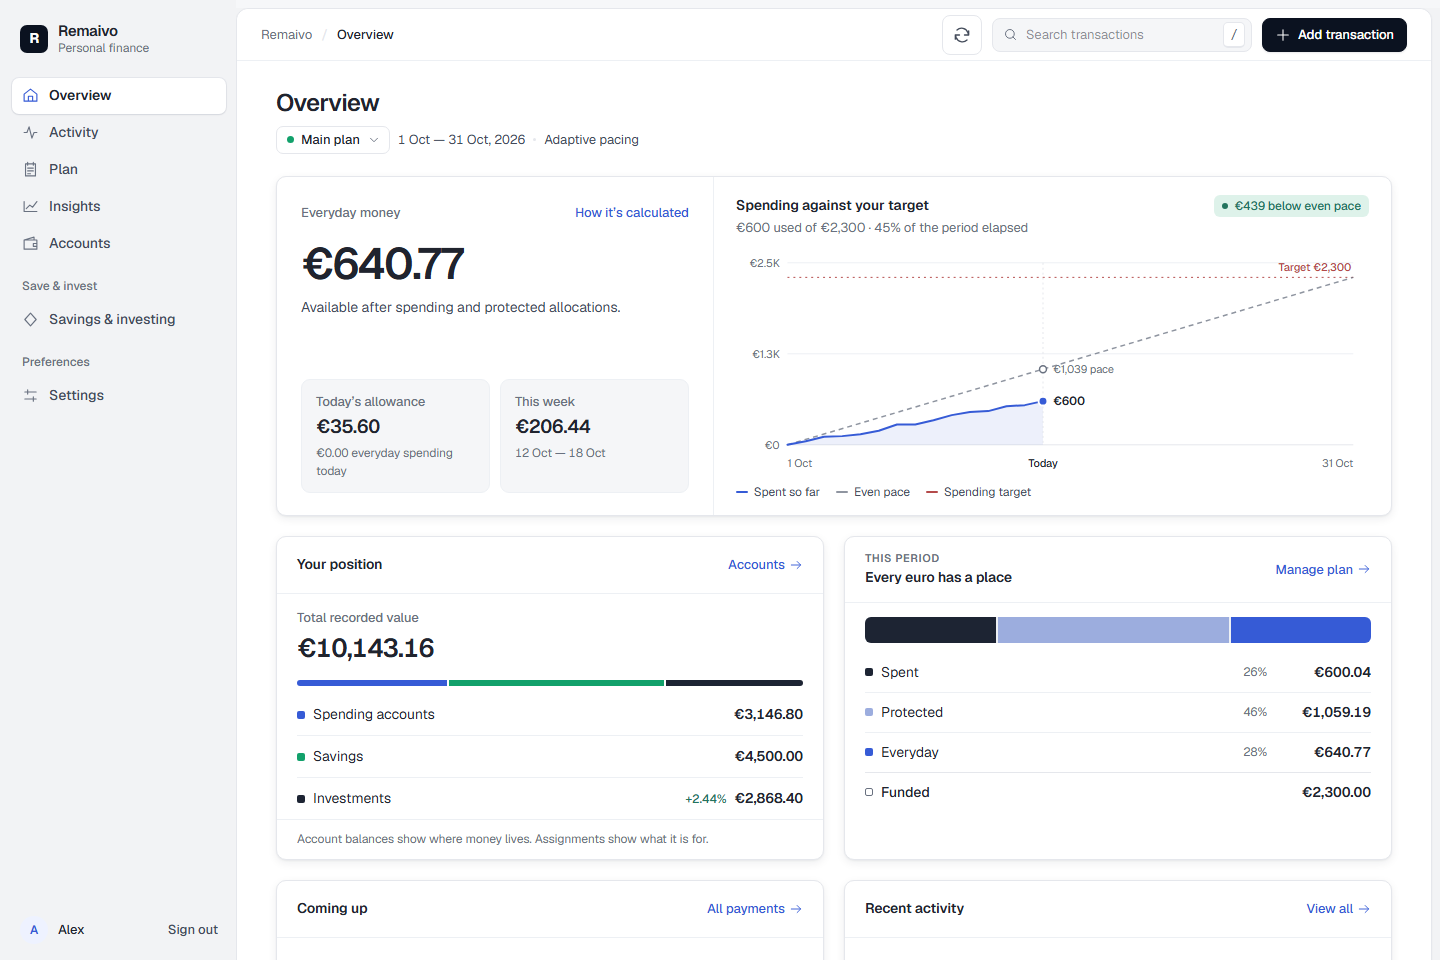
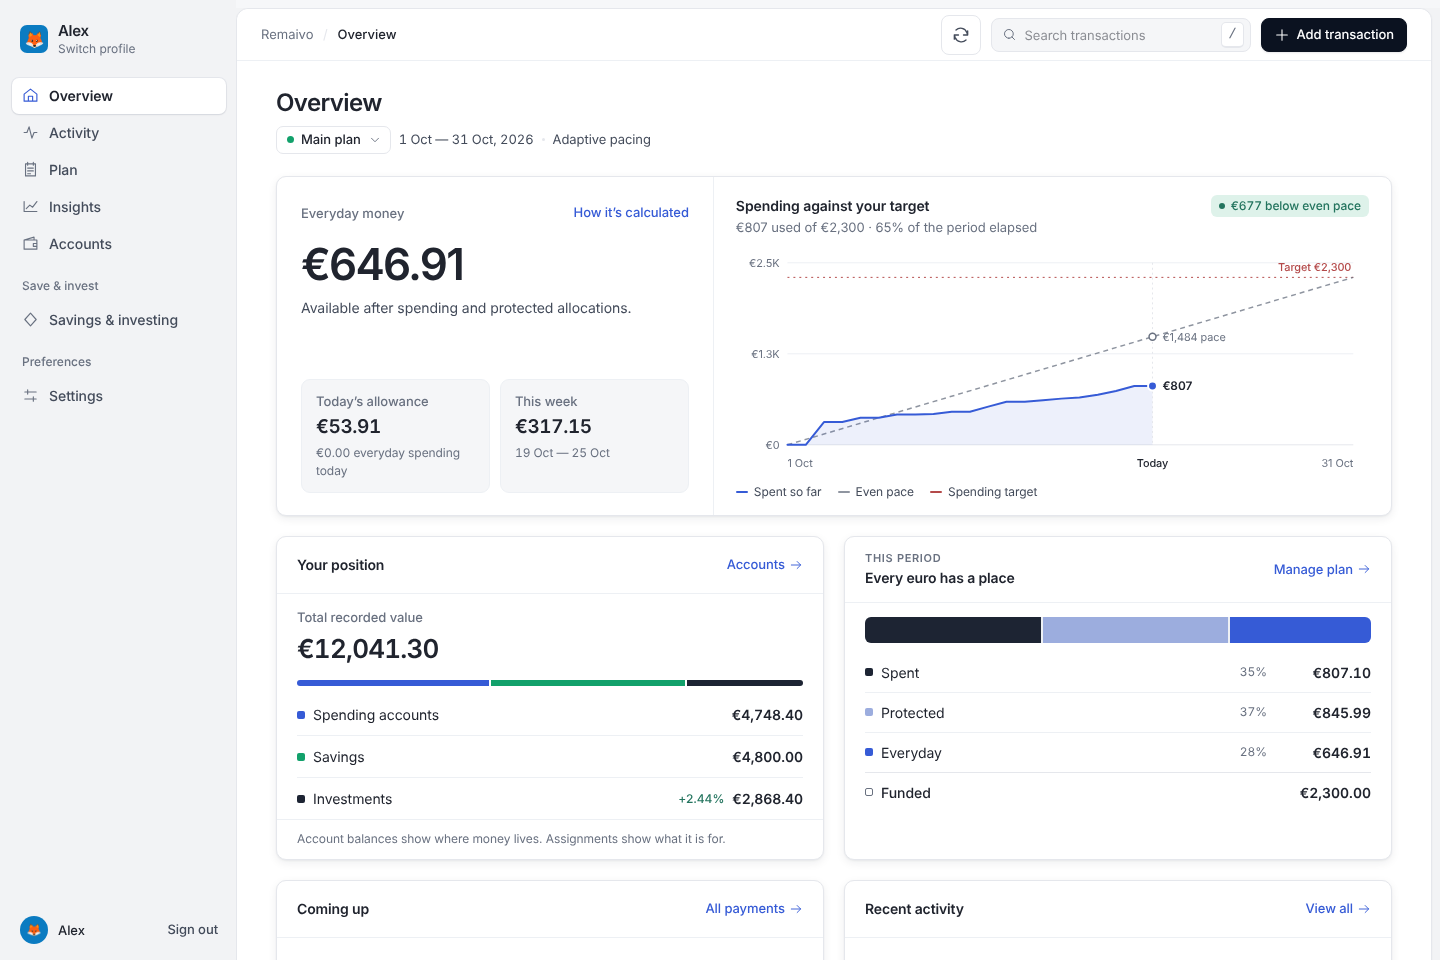
Release 1.1.1 with fresh screenshots
Retake every README screenshot with the profile card in place of the old
logo, add the profile picker on desktop and phone, and note the theme,
Greek and phone-form fixes in the changelog.

Claude-Session: https://claude.ai/code/session_013DS8Hs14GGrzWFCbTVGkKB

diff --git a/CHANGELOG.md b/CHANGELOG.md
@@ -1,5 +1,25 @@
 # Changelog
 
+## 1.1.1 (2026-10-20)
+
+**Looks the same everywhere**
+- The profile picker, sign-in pages and the installed app now follow your theme (Indigo, Ocean or Midnight), including the phone's status bar and the splash screen. No more green bars, white edges or a white flash when opening the app in dark mode.
+- The profile picker uses icon buttons instead of text, and the top-left of the app shows your profile card; tap it to switch profile.
+- Leftover greens from the old design are gone.
+
+**Greek**
+- The whole interface is now in Greek when Greek is chosen, including sign-in, profiles, statuses, charts, scheduled payments and error messages.
+
+**Phones**
+- Side-by-side fields in forms stay aligned when a label wraps, dropdowns get the full width so their choice isn't cut off, and the close button no longer covers fields while you scroll.
+- The transaction type tabs no longer overlap in Greek.
+
+**Accounts**
+- Bank, wallet and custom accounts call their limit an *overdraft limit*; credit cards keep *credit limit*. Savings, cash and investment accounts no longer show a limit.
+
+**Updating**
+- Cloudflare: open your copy on GitHub and press **Sync fork**; Cloudflare redeploys by itself. Render: **Manual Deploy → Deploy latest commit**. At home: run the three update lines from the [Docker guide](docs/setup-docker.md). Your data stays and the database updates itself.
+
 ## 1.1.0 (2026-10-19)
 
 **Profiles**

diff --git a/README.md b/README.md
@@ -25,6 +25,10 @@
 | --- | --- |
 | ![Accounts](docs/screenshots/accounts.png) | <img src="docs/screenshots/phone-overview.png" alt="Remaivo on a phone" width="300"> |
 
+| Profiles | Profiles on a phone (Midnight theme) |
+| --- | --- |
+| ![Who's using Remaivo?](docs/screenshots/profiles.png) | <img src="docs/screenshots/phone-profiles.png" alt="Profile picker on a phone" width="300"> |
+
 ## Get your own Remaivo
 
 Each Remaivo is protected by one password. Share it with a few people you trust and each of you gets a **profile**, like on a streaming service: pick yours after signing in, and your accounts, plans and history stay separate from everyone else's. Each profile card has its own name, colour and icon. Your data stays in your own account; nobody outside can see it.
